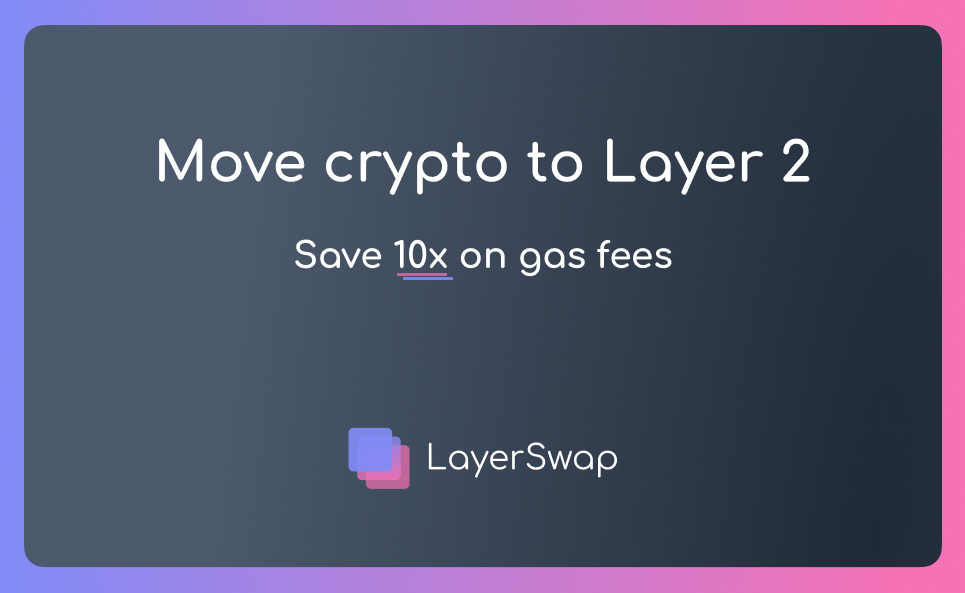
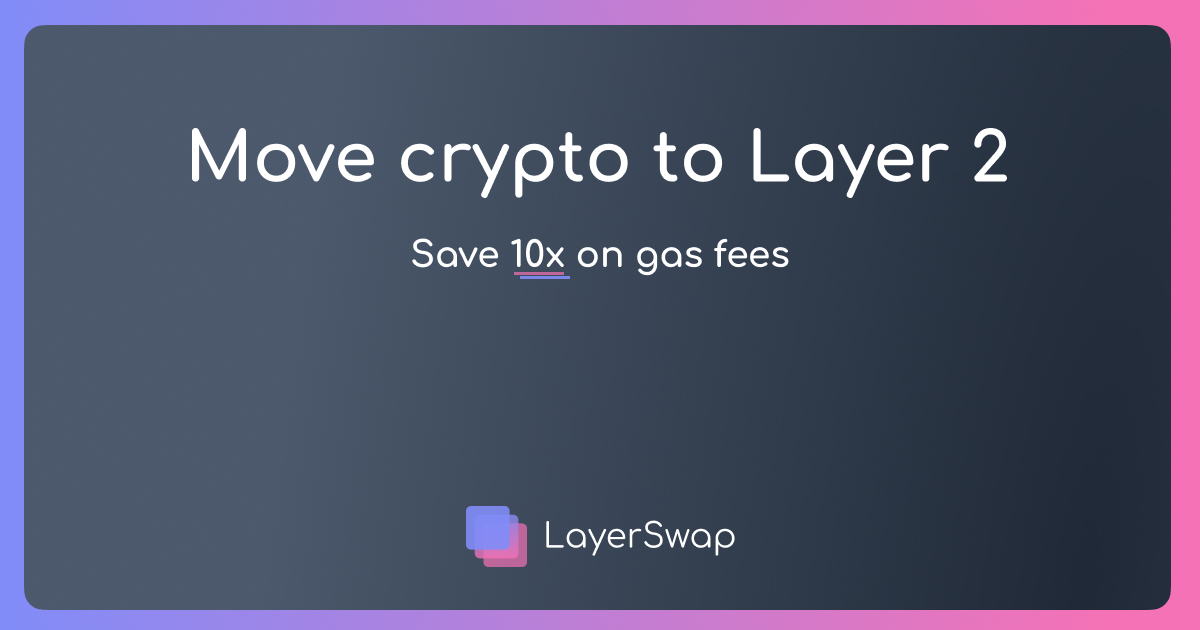
Update og images to match size requirements

diff --git a/components/layout.tsx b/components/layout.tsx
@@ -31,7 +31,7 @@ export default function Layout({ children }) {
       <meta property="twitter:url" content="https://www.layerswap.io/" />
       <meta name="twitter:title" content="LayerSwap - Move crypto to Layer 2" />
       <meta name="twitter:description" content="Move crypto from Binance or Coinbase to Arbitrum One - save 10x on fees." />
-      <meta name="twitter:image" content="https://layerswap.io/opengraph.jpg" />
+      <meta name="twitter:image" content="https://layerswap.io/opengraphtw.jpg" />
     </Head>
     <main>
       <div className="overflow-hidden relative">
